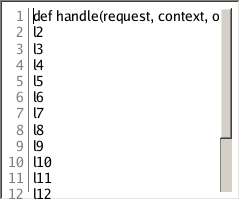
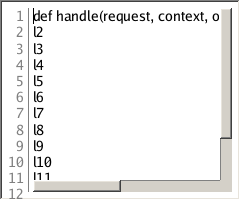
TextBox: horizontal scrollbar in a reserved bottom lane
A wrap-off multi-line box whose widest line overflows now shows a horizontal
scrollbar, mirroring the vertical one: a reserved bottom lane (scrollGutter
tall) spanning the text content area, with the two lanes leaving a dead corner
where they meet. Text/selection/caret clip to the content area minus BOTH
lanes, so nothing paints behind either bar — the same reserved-lane model the
line-number gutter uses. The lanes resolve jointly (each can trigger the other,
2-round settle). hscroll and the thumb span the whole document width
(maxLineWidth, cached by text revision), not just the caret's line, so the
thumb is meaningful; the thumb drags independent of the caret. Updates the two
wrap-off goldens (both now show the new bar) and adds a geometry test.

Changed region(s): [[0.1167, 0.9, 0.9333, 1.0]]

diff --git a/controls/textbox.go b/controls/textbox.go
@@ -177,6 +177,26 @@ type TextBox struct {
 	vDragging bool
 	vDragGrab float32
 
+	// hScrollShown mirrors vScrollShown for the HORIZONTAL scrollbar (a
+	// wrap-off multi-line box whose widest line overflows the content width):
+	// cached once per ArrangeContent (jointly with vScrollShown, since each
+	// lane's reservation can trigger the other), then read by contentHeight,
+	// hScrollTrack, RenderOverlay, and OnPointer. Always false while wrapping
+	// or single-line (no horizontal overflow to scroll).
+	hScrollShown bool
+	// hDragging/hDragGrab mirror vDragging/vDragGrab for a horizontal-thumb
+	// drag (see dragHScroll).
+	hDragging bool
+	hDragGrab float32
+
+	// maxLineW caches the widest logical line's width (logical px), keyed by
+	// maxLineWRev == rev; it drives the horizontal scrollbar's thumb size and
+	// scroll clamp (the whole document's extent, not just the caret's line).
+	// Recomputed lazily by maxLineWidth when the text revision changes.
+	maxLineW    float32
+	maxLineWRev uint64
+	maxLineWOK  bool
+
 	// desiredCol and desiredColValid track the "desired column" Up/Down
 	// navigation preserves across lines shorter than it (see
 	// moveCaretVertical): desiredColValid is false whenever the caret last
@@ -1621,6 +1641,9 @@ func (t *TextBox) fullContentWidth() float32 {
 // ArrangeContent computes as innerH.
 func (t *TextBox) contentHeight() float32 {
 	h := t.Bounds().H - 2*t.metrics.PaddingM
+	if t.hScrollShown {
+		h -= t.metrics.ScrollGutter // reserve the bottom horizontal-scrollbar lane
+	}
 	if h < 0 {
 		h = 0
 	}
@@ -1662,11 +1685,15 @@ func (t *TextBox) contentWidth() float32 {
 // the dedicated PushClip DataGrid uses around its cells (see datagrid.go).
 func (t *TextBox) textClipRect(bounds render.Rect) render.Rect {
 	pad := t.metrics.PaddingM
+	h := bounds.H
+	if t.hScrollShown {
+		h -= pad + t.metrics.ScrollGutter // exclude the reserved bottom horizontal lane
+	}
 	return render.Rect{
 		X: bounds.X + pad + t.gutterWidth(),
 		Y: bounds.Y,
 		W: t.contentWidth(),
-		H: bounds.H,
+		H: h,
 	}
 }
 
@@ -1951,6 +1978,46 @@ func (t *TextBox) caretLineWidth() float32 {
 	return t.xOfInLine(line, t.lineEnd(line)-t.lineStart(line))
 }
 
+// maxLineWidth returns the width (logical px) of the widest logical line in
+// the document — the horizontal analogue of totalContentHeight, driving the
+// horizontal scrollbar's thumb size and the hscroll clamp (so scrolling spans
+// the whole document's width, not just the caret's own line). Cached by text
+// revision (rev): recomputed only when the text changes, O(total runes) then.
+func (t *TextBox) maxLineWidth() float32 {
+	if t.maxLineWOK && t.maxLineWRev == t.rev {
+		return t.maxLineW
+	}
+	var w float32
+	if t.multiline {
+		n := t.lineCount()
+		for i := 0; i < n; i++ {
+			if lw := t.xOfInLine(i, t.lineEnd(i)-t.lineStart(i)); lw > w {
+				w = lw
+			}
+		}
+	} else {
+		w = t.xOf(len(t.runes))
+	}
+	t.maxLineW, t.maxLineWRev, t.maxLineWOK = w, t.rev, true
+	return w
+}
+
+// computeShowHScroll decides whether the horizontal scrollbar shows: a
+// wrap-off multi-line box (wrapping pins hscroll at 0, so a wrapped box never
+// scrolls horizontally) whose widest line overflows the content width. Uses
+// contentWidth (gutter- and vertical-lane-aware) so the decision reflects the
+// space text actually gets.
+func (t *TextBox) computeShowHScroll() bool {
+	if !t.multiline || t.wrapping() {
+		return false
+	}
+	cw := t.contentWidth()
+	if cw <= 0 {
+		return false
+	}
+	return t.maxLineWidth() > cw
+}
+
 // moveCaretVertical implements Up/Down (delta -1/+1) in multi-line mode:
 // moves the caret to the same column (see desiredCol/desiredColValid) on
 // the line above/below, clamped to [0, lineCount()-1] (Up on the first line
@@ -2187,17 +2254,20 @@ func (t *TextBox) MeasureContent(available render.Size) render.Size {
 // visualRows' own cache (keyed on that width) transparently recomputes on a
 // mismatch. No separate "re-wrap" step is needed beyond that cache lookup.
 func (t *TextBox) ArrangeContent(bounds render.Rect) {
-	// Refreshed first: contentWidth (used by updateHScroll below, and by
-	// every wrap-aware helper for the rest of this pass) depends on it.
-	t.vScrollShown = t.computeShowVScroll()
+	// Joint lane reservation. The two scrollbar lanes are mutually dependent:
+	// the vertical lane narrows contentWidth (which can push the widest line
+	// over the horizontal-overflow threshold), and the horizontal lane
+	// shortens contentHeight (which can push the row count over the vertical
+	// threshold). Two rounds settle it (the same shape as ListView's joint
+	// gutter resolution): each computeShow* reads the other lane's current
+	// decision, so a second pass reflects any lane the first pass turned on.
+	for i := 0; i < 2; i++ {
+		t.vScrollShown = t.computeShowVScroll()
+		t.hScrollShown = t.computeShowHScroll()
+	}
 
 	t.updateHScroll(t.contentWidth())
-
-	innerH := bounds.H - 2*t.metrics.PaddingM
-	if innerH < 0 {
-		innerH = 0
-	}
-	t.updateVScroll(innerH)
+	t.updateVScroll(t.contentHeight())
 }
 
 // updateHScroll clamps hscroll into a range that keeps the caret's display
@@ -2229,7 +2299,7 @@ func (t *TextBox) updateHScroll(innerW float32) {
 		t.hscroll = 0
 	}
 
-	maxScroll := t.caretLineWidth() - innerW
+	maxScroll := t.maxLineWidth() - innerW
 	if maxScroll < 0 {
 		maxScroll = 0
 	}
@@ -2363,6 +2433,66 @@ func (t *TextBox) dragVScroll(posY float32) {
 	t.vscroll = scrollDragOffset(track.Y, track.H, thumb.H, posY, t.vDragGrab, maxOffset)
 }
 
+// --- Horizontal scroll thumb (shown only while a wrap-off line overflows) ---
+
+// hScrollTrack returns the horizontal thumb's track rect — a scrollGutter-tall
+// strip along the BOTTOM inner edge, spanning exactly the text content area
+// (from the line-number gutter's right edge, contentWidth wide, so it stops at
+// the vertical lane's left edge and leaves the bottom-right corner square for
+// the two lanes to meet). ok==false whenever hScrollShown is false.
+func (t *TextBox) hScrollTrack() (render.Rect, bool) {
+	if !t.hScrollShown {
+		return render.Rect{}, false
+	}
+	bounds := t.Bounds()
+	pad := t.metrics.PaddingM
+	gutter := t.metrics.ScrollGutter
+	w := t.contentWidth()
+	if w <= 0 {
+		return render.Rect{}, false
+	}
+	return render.Rect{
+		X: bounds.X + pad + t.gutterWidth(),
+		Y: bounds.Y + bounds.H - pad - gutter,
+		W: w,
+		H: gutter,
+	}, true
+}
+
+// hScrollThumbRect is the horizontal analogue of vScrollThumbRect: the thumb's
+// length/position along the track reflect hscroll against the whole document
+// width (maxLineWidth), via the same shared scrollThumb* math.
+func (t *TextBox) hScrollThumbRect() (render.Rect, bool) {
+	track, ok := t.hScrollTrack()
+	if !ok {
+		return render.Rect{}, false
+	}
+	total := t.maxLineWidth()
+	thumbW := scrollThumbLength(track.W, total)
+	maxOffset := total - track.W
+	thumbX := scrollThumbPos(track.X, track.W, thumbW, t.hscroll, maxOffset)
+	return render.Rect{X: thumbX, Y: track.Y, W: thumbW, H: track.H}, true
+}
+
+// dragHScroll maps an in-progress horizontal-thumb drag (pointer X) to hscroll,
+// mirroring dragVScroll: it moves the view independent of the caret and is
+// clamped to the whole document width.
+func (t *TextBox) dragHScroll(posX float32) {
+	track, ok := t.hScrollTrack()
+	if !ok {
+		return
+	}
+	thumb, ok := t.hScrollThumbRect()
+	if !ok {
+		return
+	}
+	maxOffset := t.maxLineWidth() - track.W
+	if maxOffset <= 0 {
+		return
+	}
+	t.hscroll = scrollDragOffset(track.X, track.W, thumb.W, posX, t.hDragGrab, maxOffset)
+}
+
 // wheelScrollV scrolls the multi-line view vertically by dy logical px,
 // clamped to [0, totalContentHeight - viewport] — the SAME bound the thumb
 // drag uses (dragVScroll's maxOffset), so wheel and drag agree on the end
@@ -2401,7 +2531,7 @@ func (t *TextBox) wheelScrollH(dx float32) bool {
 	if !t.multiline || t.wrapping() {
 		return false
 	}
-	maxScroll := t.caretLineWidth() - t.contentWidth()
+	maxScroll := t.maxLineWidth() - t.contentWidth()
 	if maxScroll <= 0 {
 		return false
 	}
@@ -2935,6 +3065,18 @@ func (t *TextBox) RenderOverlay(r render.Renderer) {
 		thumb, _ := t.vScrollThumbRect()
 		drawScrollThumb(r, track, thumb, t.colors)
 	}
+	if track, ok := t.hScrollTrack(); ok {
+		thumb, _ := t.hScrollThumbRect()
+		drawScrollThumbH(r, track, thumb, t.colors)
+	}
+	// Dead corner where both lanes meet: fill it as chrome so neither a track
+	// nor content shows through the square between the two thumbs.
+	if t.vScrollShown && t.hScrollShown {
+		b := t.Bounds()
+		pad := t.metrics.PaddingM
+		g := t.metrics.ScrollGutter
+		r.FillRect(render.Rect{X: b.Right() - pad - g, Y: b.Y + b.H - pad - g, W: g, H: g}, t.colors.ButtonFace)
+	}
 }
 
 // OnKey implements input.KeyHandler, the normative Task 6 keyboard map.
@@ -3195,7 +3337,7 @@ func (t *TextBox) OnPointer(e *input.PointerEvent) {
 	if !t.enabled {
 		if e.Router != nil && e.Router.Captured() == t {
 			e.Router.Release()
-			t.vDragging = false
+			t.vDragging, t.hDragging = false, false
 		}
 		return
 	}
@@ -3226,6 +3368,13 @@ func (t *TextBox) OnPointer(e *input.PointerEvent) {
 			e.Handled = true
 			return
 		}
+		if rect, ok := t.hScrollThumbRect(); ok && rect.Contains(e.Pos) {
+			t.hDragging = true
+			t.hDragGrab = e.Pos.X - rect.X
+			e.Router.Capture(t)
+			e.Handled = true
+			return
+		}
 		idx := t.caretIndexAtPos(e.Pos.X, e.Pos.Y)
 		switch {
 		case e.ClickCount == 2:
@@ -3246,6 +3395,8 @@ func (t *TextBox) OnPointer(e *input.PointerEvent) {
 		if e.Router.Captured() == t {
 			if t.vDragging {
 				t.dragVScroll(e.Pos.Y)
+			} else if t.hDragging {
+				t.dragHScroll(e.Pos.X)
 			} else {
 				idx := t.caretIndexAtPos(e.Pos.X, e.Pos.Y)
 				t.Select(t.anchor, idx)
@@ -3255,7 +3406,7 @@ func (t *TextBox) OnPointer(e *input.PointerEvent) {
 	case input.Release:
 		if e.Router.Captured() == t {
 			e.Router.Release()
-			t.vDragging = false
+			t.vDragging, t.hDragging = false, false
 			e.Handled = true
 		}
 	}

diff --git a/controls/textbox_test.go b/controls/textbox_test.go
@@ -4359,3 +4359,64 @@ func TestTextBoxSingleLineClipsScrolledTextToPadding(t *testing.T) {
 		t.Fatal("no selection fill painted; the scrolled-bleed case was not exercised")
 	}
 }
+
+// TestTextBoxHorizontalScrollbarReservesBottomLane covers the horizontal
+// scrollbar: a wrap-off box whose widest line overflows gets a bottom-lane
+// scrollbar (mirroring the vertical one's right lane); the text clip excludes
+// that lane so text never paints behind it; the two lanes leave a dead corner;
+// and dragging the thumb scrolls horizontally independent of the caret.
+func TestTextBoxHorizontalScrollbarReservesBottomLane(t *testing.T) {
+	tb := NewTextBox(buttonFace(t)).SetMultiline(true).SetLineNumbers(true)
+	long := strings.Repeat("wwwwwwwwww ", 20) // far wider than the box
+	tb.SetText(long + "\nl1\nl2\nl3\nl4\nl5\nl6\nl7\nl8\nl9")
+	tb.SetWidth(200)
+	tb.SetHeight(80)
+	core.MeasureWidget(tb, render.Size{W: 200, H: 80})
+	core.ArrangeWidget(tb, render.Rect{X: 0, Y: 0, W: 200, H: 80})
+
+	if !tb.hScrollShown {
+		t.Fatal("hScrollShown = false, want true (widest line overflows the content width)")
+	}
+	if !tb.vScrollShown {
+		t.Fatal("vScrollShown = false, want true (rows overflow the height)")
+	}
+
+	bounds := tb.Bounds()
+	pad := tb.metrics.PaddingM
+	g := tb.metrics.ScrollGutter
+
+	ht, ok := tb.hScrollTrack()
+	if !ok {
+		t.Fatal("hScrollTrack ok = false")
+	}
+	if wantY := bounds.Y + bounds.H - pad - g; ht.Y != wantY {
+		t.Fatalf("h-track Y = %v, want %v (bottom lane)", ht.Y, wantY)
+	}
+	if ht.H != g {
+		t.Fatalf("h-track H = %v, want gutter %v", ht.H, g)
+	}
+	if wantX := bounds.X + pad + tb.gutterWidth(); ht.X != wantX {
+		t.Fatalf("h-track X = %v, want %v (starts after the line-number gutter)", ht.X, wantX)
+	}
+
+	vtrack, _ := tb.vScrollTrack()
+	if ht.Right() > vtrack.X+0.01 {
+		t.Fatalf("h-track right = %v extends past the v-lane left edge %v (should stop, leaving the corner)", ht.Right(), vtrack.X)
+	}
+
+	vp := tb.textClipRect(bounds)
+	if wantBottom := bounds.Y + bounds.H - pad - g; vp.Y+vp.H != wantBottom {
+		t.Fatalf("text clip bottom = %v, want %v (excludes the h-lane)", vp.Y+vp.H, wantBottom)
+	}
+	if vp.Right() != vtrack.X {
+		t.Fatalf("text clip right = %v, want v-track X %v (excludes the v-lane)", vp.Right(), vtrack.X)
+	}
+
+	before := tb.hscroll
+	thumb, _ := tb.hScrollThumbRect()
+	tb.hDragging, tb.hDragGrab = true, 0
+	tb.dragHScroll(thumb.X + 40) // drag the thumb right
+	if tb.hscroll <= before {
+		t.Fatalf("dragHScroll did not move hscroll (%v -> %v)", before, tb.hscroll)
+	}
+}

diff --git a/controls/bevel.go b/controls/bevel.go
@@ -82,6 +82,15 @@ func drawScrollThumb(r render.Renderer, track, thumb render.Rect, c theme.ColorT
 	drawRaised(r, thumb, c.ButtonFace, c)
 }
 
+// drawScrollThumbH is the horizontal analogue of drawScrollThumb: the opaque
+// track fill, a 1px shadow along the track's TOP edge (where the vertical one
+// puts it on the left), and the raised thumb.
+func drawScrollThumbH(r render.Renderer, track, thumb render.Rect, c theme.ColorTokens) {
+	r.FillRect(track, c.ButtonFace)
+	r.FillRect(render.Rect{X: track.X, Y: track.Y, W: track.W, H: 1}, c.ButtonShadow)
+	drawRaised(r, thumb, c.ButtonFace, c)
+}
+
 // drawRaisedRounded paints a raised 3D look on a rounded rect (pill/circle
 // button chrome): a `face`-filled interior with a light top-left / dark
 // bottom-right 1px bevel. StrokeRoundedRect only strokes a single flat
